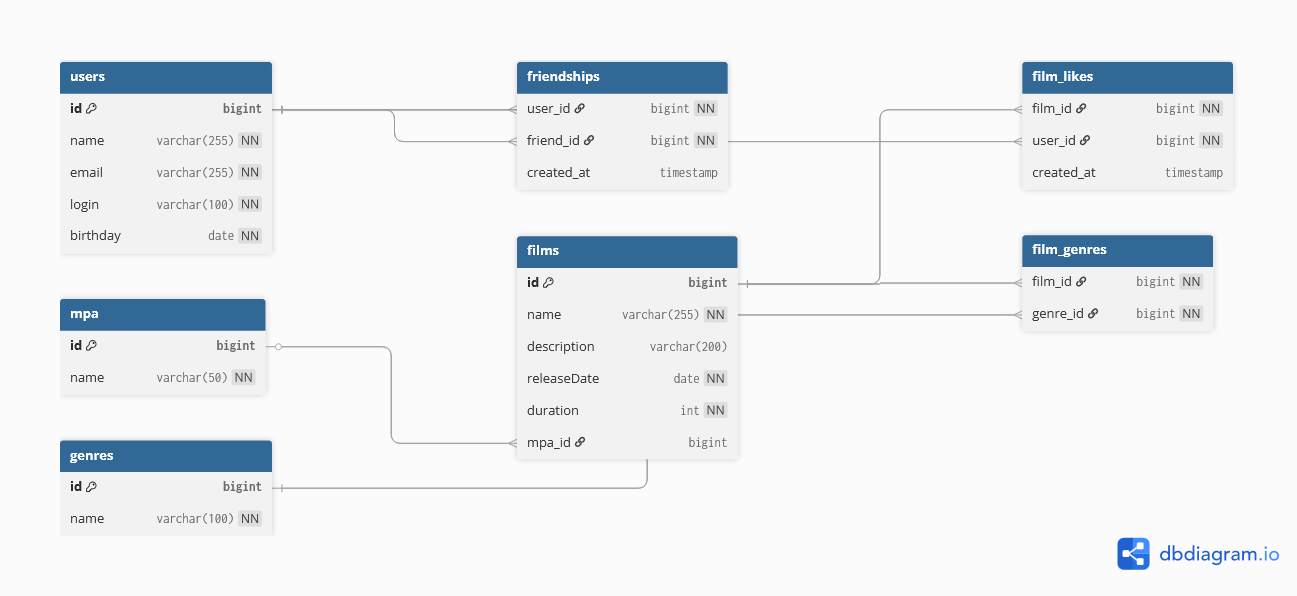
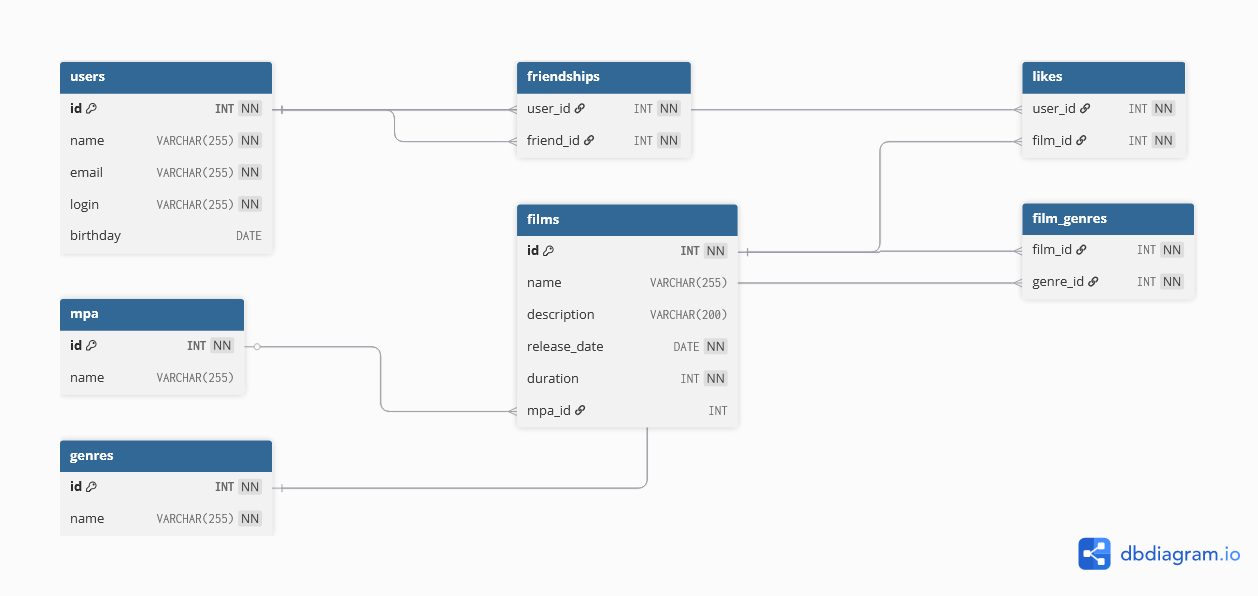
Решена проблема с жанрами Приведена в соответствие схема БД

diff --git a/src/main/java/ru/yandex/practicum/filmorate/service/FilmService.java b/src/main/java/ru/yandex/practicum/filmorate/service/FilmService.java
@@ -3,12 +3,15 @@ package ru.yandex.practicum.filmorate.service;
 import lombok.RequiredArgsConstructor;
 import lombok.extern.slf4j.Slf4j;
 import org.apache.coyote.BadRequestException;
+import org.springframework.dao.EmptyResultDataAccessException;
+import org.springframework.jdbc.core.JdbcTemplate;
 import org.springframework.stereotype.Service;
 import ru.yandex.practicum.filmorate.controller.mapper.FilmMapper;
 import ru.yandex.practicum.filmorate.dal.FilmRepository;
 import ru.yandex.practicum.filmorate.dal.GenreRepository;
 import ru.yandex.practicum.filmorate.dal.MpaRepository;
 import ru.yandex.practicum.filmorate.dal.UserRepository;
+import ru.yandex.practicum.filmorate.dal.mappers.GenreRowMapper;
 import ru.yandex.practicum.filmorate.dto.FilmDto;
 import ru.yandex.practicum.filmorate.dto.GenreDto;
 import ru.yandex.practicum.filmorate.exceptions.NotFoundException;
@@ -18,6 +21,7 @@ import ru.yandex.practicum.filmorate.model.Genre;
 import ru.yandex.practicum.filmorate.model.Mpa;
 
 import java.time.LocalDate;
+import java.util.HashSet;
 import java.util.List;
 import java.util.Set;
 import java.util.stream.Collectors;
@@ -29,8 +33,10 @@ public class FilmService {
 
     private final FilmRepository filmRepository;
     private final GenreRepository genreRepository;
+    private final GenreRowMapper genreRowMapper;
     private final UserRepository userRepository;
     private final MpaRepository mpaRepository;
+    private final JdbcTemplate jdbc;
 
     public FilmDto create(FilmDto dto) throws ValidationException {
         validateFilmDto(dto);
@@ -105,13 +111,16 @@ public class FilmService {
         if (film == null) {
             throw new NotFoundException("Фильм с ID " + id + " не найден");
         }
+
+        Set<Genre> genres = loadGenresForFilm(id);
+        film.setGenres(genres);
+
         return FilmMapper.mapToFilmDto(film);
     }
 
     public void addLike(Long filmId, Long userId) {
         log.info("Пользователь с ID {} поставил лайк фильму с ID {}", userId, filmId);
 
-        // Проверка существования пользователя
         userRepository.getById(userId)
                 .orElseThrow(() -> new NotFoundException("Пользователь с ID " + userId + " не найден"));
 
@@ -131,5 +140,17 @@ public class FilmService {
                 .collect(Collectors.toList());
     }
 
-
+    private Set<Genre> loadGenresForFilm(Long filmId) {
+        String sql = "SELECT g.id, g.name FROM genres g " +
+                "JOIN film_genres fg ON g.id = fg.genre_id " +
+                "WHERE fg.film_id = ?";
+        try {
+            List<Genre> genres = jdbc.query(sql, genreRowMapper, filmId);
+            log.debug("Загружено {} жанров для фильма ID={}", genres.size(), filmId);
+            return new HashSet<>(genres);
+        } catch (EmptyResultDataAccessException e) {
+            log.warn("Для фильма ID={} не найдено жанров", filmId);
+            return Set.of();
+        }
+    }
 }

diff --git a/src/main/java/ru/yandex/practicum/filmorate/dal/FilmRepository.java b/src/main/java/ru/yandex/practicum/filmorate/dal/FilmRepository.java
@@ -55,7 +55,10 @@ public class FilmRepository {
         Long generatedId = keyHolder.getKey().longValue();
         film.setId(generatedId);
 
-        // Сохраняем likes отдельно
+        updateFilmGenres(generatedId, film.getGenres().stream()
+                .map(Genre::getId)
+                .collect(Collectors.toSet()));
+
         updateFilmLikes(generatedId, film.getLikes());
 
         return film;
@@ -107,7 +110,7 @@ public class FilmRepository {
         String sql = "SELECT f.*, f.mpa_id AS mpa_id "
                 + "FROM films f "
                 + "ORDER BY f.id";
-        return jdbc.query(sql, filmRowMapper); // используем готовый mapper
+        return jdbc.query(sql, filmRowMapper);
     }
 
 
@@ -116,19 +119,7 @@ public class FilmRepository {
         return jdbc.queryForObject(sql, filmRowMapper, id);
     }
 
-    public Set<Genre> loadGenresForFilm(Long filmId) {
-        if (filmId == null) {
-            return Set.of();
-        }
-
-        String sql = "SELECT g.id, g.name FROM genres g " +
-                "JOIN film_genres fg ON g.id = fg.genre_id " +
-                "WHERE fg.film_id = ?";
-
-        return new HashSet<>(jdbc.query(sql, genreRowMapper, filmId));
-    }
-
-    private Set<Long> loadLikesForFilm(Long filmId) {
+        private Set<Long> loadLikesForFilm(Long filmId) {
         String sql = "SELECT user_id FROM likes WHERE film_id = ?";
         List<Long> likes = jdbc.queryForList(sql, Long.class, filmId);
         return new HashSet<>(likes);
@@ -194,15 +185,15 @@ public class FilmRepository {
                 }
             });
 
-            // Добавляем жанр, если он есть
             if (rs.getObject("genre_id") != null) {
                 Genre genre = new Genre();
                 genre.setId(rs.getLong("genre_id"));
                 genre.setName(rs.getString("genre_name"));
-                film.getGenres().add(genre);
+                if (!film.getGenres().contains(genre)) {
+                    film.getGenres().add(genre);
+                }
             }
 
-            // Добавляем лайк, если он есть
             if (rs.getObject("like_user_id") != null) {
                 film.getLikes().add(rs.getLong("like_user_id"));
             }

diff --git a/src/main/java/ru/yandex/practicum/filmorate/dal/mappers/FilmRowMapper.java b/src/main/java/ru/yandex/practicum/filmorate/dal/mappers/FilmRowMapper.java
@@ -1,7 +1,6 @@
 package ru.yandex.practicum.filmorate.dal.mappers;
 
-import org.slf4j.Logger;
-import org.slf4j.LoggerFactory;
+import lombok.extern.slf4j.Slf4j;
 import org.springframework.beans.factory.annotation.Autowired;
 import org.springframework.dao.EmptyResultDataAccessException;
 import org.springframework.jdbc.core.JdbcTemplate;
@@ -19,12 +18,12 @@ import java.util.List;
 import java.util.Set;
 
 @Component
+@Slf4j
 public class FilmRowMapper implements RowMapper<Film> {
-
-    private static final Logger log = LoggerFactory.getLogger(FilmRowMapper.class);
 
     private final JdbcTemplate jdbc;
     private final GenreRowMapper genreRowMapper;
+
 
     @Autowired
     public FilmRowMapper(JdbcTemplate jdbc, GenreRowMapper genreRowMapper) {
@@ -67,7 +66,6 @@ public class FilmRowMapper implements RowMapper<Film> {
             film.setMpa(mpa);
         }
 
-        // Загружаем жанры
         Set<Genre> genres = loadGenresForFilm(film.getId());
         film.setGenres(genres);
 
@@ -76,13 +74,18 @@ public class FilmRowMapper implements RowMapper<Film> {
     }
 
     private Set<Genre> loadGenresForFilm(Long filmId) {
-        if (filmId == null) {
-            return Set.of();
-        }
-        String sql = "SELECT g.* FROM genres g " +
+        if (filmId == null) return Set.of();
+
+        String sql = "SELECT g.id, g.name FROM genres g " +
                 "JOIN film_genres fg ON g.id = fg.genre_id " +
                 "WHERE fg.film_id = ?";
-        return new HashSet<>(jdbc.query(sql, genreRowMapper, filmId));
+
+        try {
+            List<Genre> genres = jdbc.query(sql, genreRowMapper, filmId);
+            return new HashSet<>(genres);
+        } catch (EmptyResultDataAccessException e) {
+            return Set.of();
+        }
     }
 
     private Mpa loadMpaForFilm(Long mpaId) {

diff --git a/src/main/java/ru/yandex/practicum/filmorate/controller/mapper/FilmMapper.java b/src/main/java/ru/yandex/practicum/filmorate/controller/mapper/FilmMapper.java
@@ -25,7 +25,7 @@ public final class FilmMapper {
         dto.setReleaseDate(film.getReleaseDate());
         dto.setDuration(film.getDuration());
         dto.setMpa(film.getMpa());
-        if (film.getGenres() != null) {
+        if (film.getGenres() != null && !film.getGenres().isEmpty()) {
             dto.setGenres(GenreMapper.toDto(film.getGenres()));
         } else {
             dto.setGenres(Collections.emptySet());
@@ -33,27 +33,6 @@ public final class FilmMapper {
         dto.setLikes(film.getLikes());
 
         return dto;
-    }
-
-    public static Film toFilm(FilmDto dto) {
-        if (dto == null) {
-            return null;
-        }
-
-        Film film = new Film();
-
-        if (dto.getId() != null) {
-            film.setId(dto.getId());
-        }
-        film.setName(dto.getName());
-        film.setDescription(dto.getDescription());
-        film.setReleaseDate(dto.getReleaseDate());
-        film.setDuration(dto.getDuration());
-        film.setMpa(dto.getMpa());
-        film.setGenres(GenreMapper.toGenres(dto.getGenres()));
-        film.setLikes(dto.getLikes());
-
-        return film;
     }
 
     public static Film toFilm(FilmDto dto, Mpa mpa) {
@@ -70,7 +49,7 @@ public final class FilmMapper {
         film.setDescription(dto.getDescription());
         film.setReleaseDate(dto.getReleaseDate());
         film.setDuration(dto.getDuration());
-        film.setMpa(mpa); // устанавливаем MPA из параметра метода
+        film.setMpa(mpa);
         film.setGenres(GenreMapper.toGenres(dto.getGenres()));
         film.setLikes(dto.getLikes());
 

diff --git a/src/main/java/ru/yandex/practicum/filmorate/service/UserService.java b/src/main/java/ru/yandex/practicum/filmorate/service/UserService.java
@@ -113,7 +113,6 @@ public class UserService {
         userRepository.addFriend(userId, friendId);
     }
 
-
     public boolean deleteFriend(Long userId, Long friendId) throws UserNotFoundException {
         log.info("Пользователь с ID {} удаляет из друзей пользователя с ID {}", userId, friendId);
         if (userId == null || friendId == null) {

diff --git a/src/main/java/ru/yandex/practicum/filmorate/controller/mapper/GenreMapper.java b/src/main/java/ru/yandex/practicum/filmorate/controller/mapper/GenreMapper.java
@@ -41,4 +41,5 @@ public class GenreMapper {
                 })
                 .collect(Collectors.toSet());
     }
+
 }
